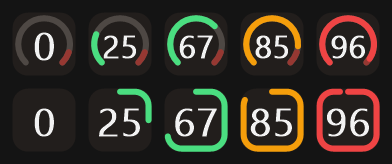
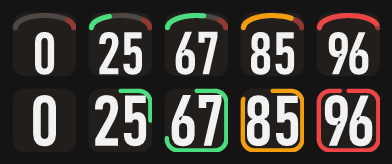
Make taskbar numbers larger
Use a condensed font, a flatter gauge arc and a thinner outline, and fit digits to their drawn shape so they stay clear of the border.

diff --git a/src/TrayIcon.cs b/src/TrayIcon.cs
@@ -12,6 +12,8 @@ static class TrayIcon
     static readonly Color Tile = Color.FromArgb(34, 30, 28);
     static readonly Color GaugeTrack = Color.FromArgb(78, 72, 68);
     static readonly Color GaugeDanger = Color.FromArgb(150, 56, 50);
+    const float GaugeArcHeight = 0.38f;
+    static string numberFont;
 
     // primary = 5-hour limit (white number); the weekly icon colors its number by level.
     public static Bitmap Draw(IconStyle style, int? percent, bool primary, bool stale, int size)
@@ -24,9 +26,9 @@ static class TrayIcon
 
             Color color = Theme.ForPercent(percent, stale);
             float progress = percent.HasValue ? Math.Max(0, Math.Min(100, percent.Value)) / 100f : 0;
-            float stroke = Math.Max(1.5f, size * 0.095f);
+            float stroke = style == IconStyle.Gauge ? Math.Max(1.25f, size * 0.08f) : Math.Max(1f, size * 0.07f);
 
-            using (GraphicsPath tile = Theme.Rounded(new RectangleF(0, 0, size - 1, size - 1), size * 0.24f))
+            using (GraphicsPath tile = Theme.Rounded(new RectangleF(0, 0, size, size), size * 0.2f))
             using (Brush brush = new SolidBrush(Tile))
                 g.FillPath(brush, tile);
 
@@ -47,20 +49,22 @@ static class TrayIcon
         return pen;
     }
 
+    // A flat arc along the top, so the number keeps the full width below it.
     static void DrawGauge(Graphics g, int size, float stroke, float progress, Color color)
     {
-        const float StartAngle = 135;
-        const float FullSweep = 270;
-        float inset = size * 0.04f + stroke / 2;
-        float diameter = size - 1 - inset * 2;
+        const float StartAngle = 180;
+        const float FullSweep = 180;
         const float DangerStart = 0.9f;
+        float inset = stroke / 2 + 0.25f;
+        float width = size - inset * 2;
+        float height = size * GaugeArcHeight;
         using (Pen track = NewRoundPen(GaugeTrack, stroke))
-            g.DrawArc(track, inset, inset, diameter, diameter, StartAngle, FullSweep);
+            g.DrawArc(track, inset, inset, width, height, StartAngle, FullSweep);
         using (Pen danger = NewRoundPen(GaugeDanger, stroke))
-            g.DrawArc(danger, inset, inset, diameter, diameter, StartAngle + FullSweep * DangerStart, FullSweep * (1 - DangerStart));
+            g.DrawArc(danger, inset, inset, width, height, StartAngle + FullSweep * DangerStart, FullSweep * (1 - DangerStart));
         if (progress <= 0) return;
         using (Pen value = NewRoundPen(color, stroke))
-            g.DrawArc(value, inset, inset, diameter, diameter, StartAngle, Math.Max(1, FullSweep * progress));
+            g.DrawArc(value, inset, inset, width, height, StartAngle, Math.Max(2, FullSweep * progress));
     }
 
     // A line that starts at the top and runs clockwise around the edge; at 0% there is none.
@@ -68,9 +72,9 @@ static class TrayIcon
     {
         if (progress <= 0) return;
         float left = stroke / 2;
-        float right = size - 1 - stroke / 2;
-        float center = (size - 1) / 2f;
-        float diameter = size * 0.44f;
+        float right = size - stroke / 2;
+        float center = size / 2f;
+        float diameter = size * 0.36f;
         float radius = diameter / 2;
 
         using (GraphicsPath path = new GraphicsPath())
@@ -127,37 +131,42 @@ static class TrayIcon
     static void DrawNumber(Graphics g, IconStyle style, int? percent, Color color, int size, float stroke)
     {
         string text = percent.HasValue ? percent.Value.ToString(CultureInfo.InvariantCulture) : "?";
+        // The gauge's arc only uses the top, while the outline's line runs around every side.
+        float gap = Math.Max(0.5f, size * 0.03f);
+        float top = (style == IconStyle.Gauge ? size * GaugeArcHeight / 2 + stroke : stroke) + gap;
+        float bottom = size - (style == IconStyle.Gauge ? gap : stroke + gap);
+        float side = style == IconStyle.Gauge ? gap : stroke + gap;
+        RectangleF area = new RectangleF(side, top, size - side * 2, bottom - top);
+
+        using (GraphicsPath path = new GraphicsPath())
+        using (FontFamily family = new FontFamily(NumberFontFamily()))
         using (StringFormat format = (StringFormat)StringFormat.GenericTypographic.Clone())
+        using (Matrix fit = new Matrix())
         using (Brush brush = new SolidBrush(color))
         {
-            format.Alignment = StringAlignment.Center;
-            format.LineAlignment = StringAlignment.Center;
-            format.FormatFlags = StringFormatFlags.NoWrap | StringFormatFlags.NoClip;
-            using (Font font = NewFittedFont(g, text, style, size, stroke, format))
-                g.DrawString(text, font, brush, new RectangleF(0, 0, size, size), format);
+            path.AddString(text, family, (int)FontStyle.Regular, 100, PointF.Empty, format);
+
+            // Fits the drawn shape of the digits, not the font's box, so they can never reach the edge.
+            RectangleF ink = path.GetBounds();
+            float scale = Math.Min(area.Width / ink.Width, area.Height / ink.Height);
+            fit.Translate(area.X + (area.Width - ink.Width * scale) / 2, area.Y + (area.Height - ink.Height * scale) / 2);
+            fit.Scale(scale, scale);
+            fit.Translate(-ink.X, -ink.Y);
+            path.Transform(fit);
+            g.FillPath(brush, path);
         }
     }
 
-    // Shrinks the number until it clears the ring or line around it, whatever the digits are.
-    static Font NewFittedFont(Graphics g, string text, IconStyle style, int size, float stroke, StringFormat format)
+    // A condensed font fits taller digits in the same width. It ships with Windows 10 and 11.
+    static string NumberFontFamily()
     {
-        const float DigitHeight = 0.74f;
-        float margin = Math.Max(0.75f, size * 0.04f);
-        float inner = style == IconStyle.Gauge
-            ? size - 1 - size * 0.08f - stroke * 2
-            : size - 1 - stroke * 2;
-
-        for (float pixels = size * 0.62f; pixels > size * 0.3f; pixels -= 0.25f)
+        if (numberFont != null) return numberFont;
+        using (InstalledFontCollection fonts = new InstalledFontCollection())
         {
-            Font font = new Font("Segoe UI", pixels, FontStyle.Bold, GraphicsUnit.Pixel);
-            float height = pixels * DigitHeight;
-            float allowed = style == IconStyle.Gauge
-                ? 2 * (float)Math.Sqrt(Math.Max(0, inner * inner / 4 - height * height / 4)) - margin
-                : inner - margin * 2;
-            if (g.MeasureString(text, font, PointF.Empty, format).Width <= allowed) return font;
-            font.Dispose();
+            bool available = Array.Exists(fonts.Families, delegate(FontFamily f) { return f.Name == "Bahnschrift SemiBold Condensed"; });
+            numberFont = available ? "Bahnschrift SemiBold Condensed" : "Segoe UI";
         }
-        return new Font("Segoe UI", size * 0.3f, FontStyle.Bold, GraphicsUnit.Pixel);
+        return numberFont;
     }
 }
 
